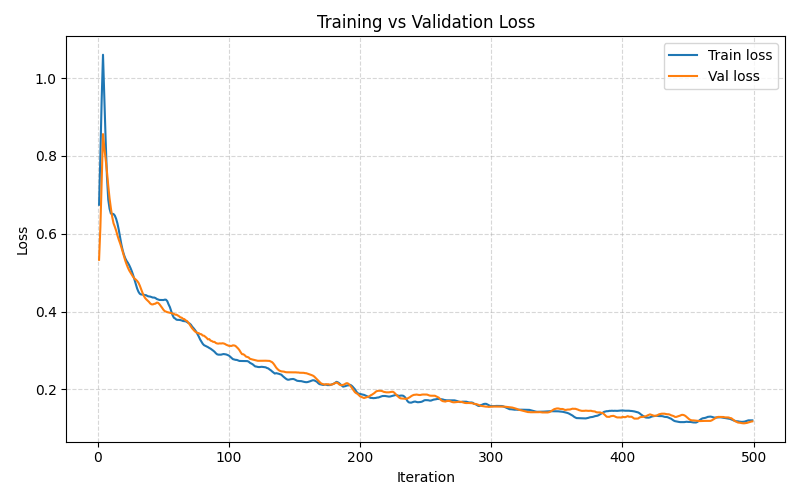
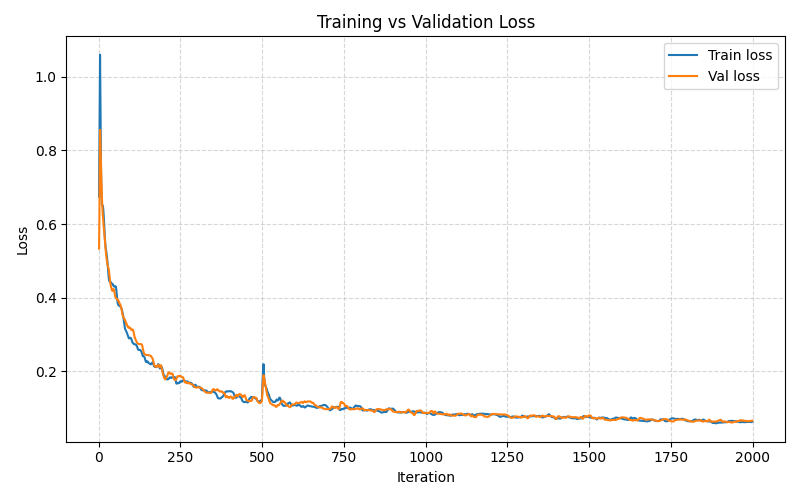
update trained model to 2000 iterations

diff --git a/Detectron2/predict.py b/Detectron2/predict.py
@@ -5,6 +5,7 @@ from detectron2.engine import DefaultPredictor
 from detectron2 import model_zoo
 import random
 import glob
+from datetime import datetime
 
 # settings
 
@@ -17,9 +18,11 @@ CLASS_NAMES_FILE = "class.names"
 # image to test
 # IMAGE_PATH = "./data/val/imgs/check_001_000_G1_2.jpg"
 IMAGE_PATH = random.choice(glob.glob("data/val/imgs/*.jpg"))
+IMAGE_DIR = "data/val/imgs"
 
 # score threshold for display
 THRESH = 0.40
+NUM_SAMPLES = 10
 
 # load class names from file
 with open(CLASS_NAMES_FILE, "r") as f:
@@ -39,42 +42,44 @@ cfg.MODEL.RETINANET.NMS_THRESH_TEST = 0.5
 predictor = DefaultPredictor(cfg)
 
 # load input image
-img = cv2.imread(IMAGE_PATH)
-assert img is not None, f"Image not found: {IMAGE_PATH}"
+all_img = glob.glob(os.path.join(IMAGE_DIR, "*.jpg"))
+random_imgs = random.sample(all_img, min(NUM_SAMPLES, len(all_img)))
 
-# run inference
-outputs = predictor(img)
-inst = outputs["instances"].to("cpu")
-boxes = inst.pred_boxes.tensor.numpy().tolist()     # predicted bounding boxes
-scores = inst.scores.numpy().tolist()               # confidence score
-classes = inst.pred_classes.numpy().tolist()        # class indices
+# output folder
+os.makedirs("output_saved", exist_ok=True)
+run_dir = "output_saved"
 
-# draw predictions on the image
-for (box, score, cls) in zip(boxes, scores, classes):
-    if score < THRESH:
-        continue
-    x1, y1, x2, y2 = map(int, box)
-    label = CLASS_NAMES[cls] if 0 <= cls < NUM_CLASSES else f"id{cls}"
+for idx, img_path in enumerate(random_imgs, start=1):
+    img = cv2.imread(img_path)
+    assert img is not None, f"Image not found: {img_path}"
 
-    # draw bounding box and label
-    cv2.rectangle(img, (x1, y1), (x2, y2), (0, 0, 255), 2)
-    text = f"{label} {int(score*100)}%"
-    # text bg
-    (tw, th), _ = cv2.getTextSize(text, cv2.FONT_HERSHEY_SIMPLEX, 0.6, 2)
-    cv2.rectangle(img, (x1, y1 - th - 6), (x1 + tw + 4, y1), (0, 0, 255), -1)
-    cv2.putText(img, text, (x1 + 2, y1 - 4),
-                cv2.FONT_HERSHEY_SIMPLEX, 0.6, (255, 255, 255), 2, cv2.LINE_AA)
+    outputs = predictor(img)
+    inst = outputs["instances"].to("cpu")
+    boxes = inst.pred_boxes.tensor.numpy().tolist()     # predicted bounding boxes
+    scores = inst.scores.numpy().tolist()               # confidence score
+    classes = inst.pred_classes.numpy().tolist()        # class indices
 
-# save the result and display it
-out_path = "output_saved/prediction.jpg"
-os.makedirs(os.path.dirname(out_path), exist_ok=True)
-cv2.imwrite(out_path, img)
-print(f"Saved: {out_path}")
+    # draw predictions on the image
+    for (box, score, cls) in zip(boxes, scores, classes):
+        if score < THRESH:
+            continue
+        x1, y1, x2, y2 = map(int, box)
+        label = CLASS_NAMES[cls] if 0 <= cls < NUM_CLASSES else f"id{cls}"
 
-# show prediction window
-cv2.imshow("Prediction", img)
-while True:
-    k = cv2.waitKey(10) & 0xFF
-    if k in (27, ord('q')):
-        break
-cv2.destroyAllWindows()
+        # draw bounding box and label
+        cv2.rectangle(img, (x1, y1), (x2, y2), (0, 0, 255), 2)
+        text = f"{label} {int(score*100)}%"
+
+        # text bg
+        (tw, th), _ = cv2.getTextSize(text, cv2.FONT_HERSHEY_SIMPLEX, 0.6, 2)
+        cv2.rectangle(img, (x1, y1 - th - 6), (x1 + tw + 4, y1), (0, 0, 255), -1)
+        cv2.putText(img, text, (x1 + 2, y1 - 4),
+                    cv2.FONT_HERSHEY_SIMPLEX, 0.6, (255, 255, 255), 2, cv2.LINE_AA)
+
+    # save the result and display it
+    base_name = os.path.splitext(os.path.basename(img_path))[0]
+    out_path = os.path.join(run_dir, f"{base_name}_prediction.jpg")
+    cv2.imwrite(out_path, img)
+    print(f"Saved:", os.path.abspath(out_path))
+
+print(f"Done saved: {len(random_imgs)} predictions in output_saved/")

diff --git a/Detectron2/plot_loss.py b/Detectron2/plot_loss.py
@@ -81,8 +81,8 @@ plt.legend()
 plt.grid(True, linestyle="--", alpha=0.5)
 plt.tight_layout()
 
-os.makedirs("output", exist_ok=True)
-out_png = os.path.join("output", "loss_curve.png")
+os.makedirs("output_saved", exist_ok=True)
+out_png = os.path.join("output_saved", "loss_curve.png")
 plt.savefig(out_png)
 print("Saved:", out_png)
 plt.show()
